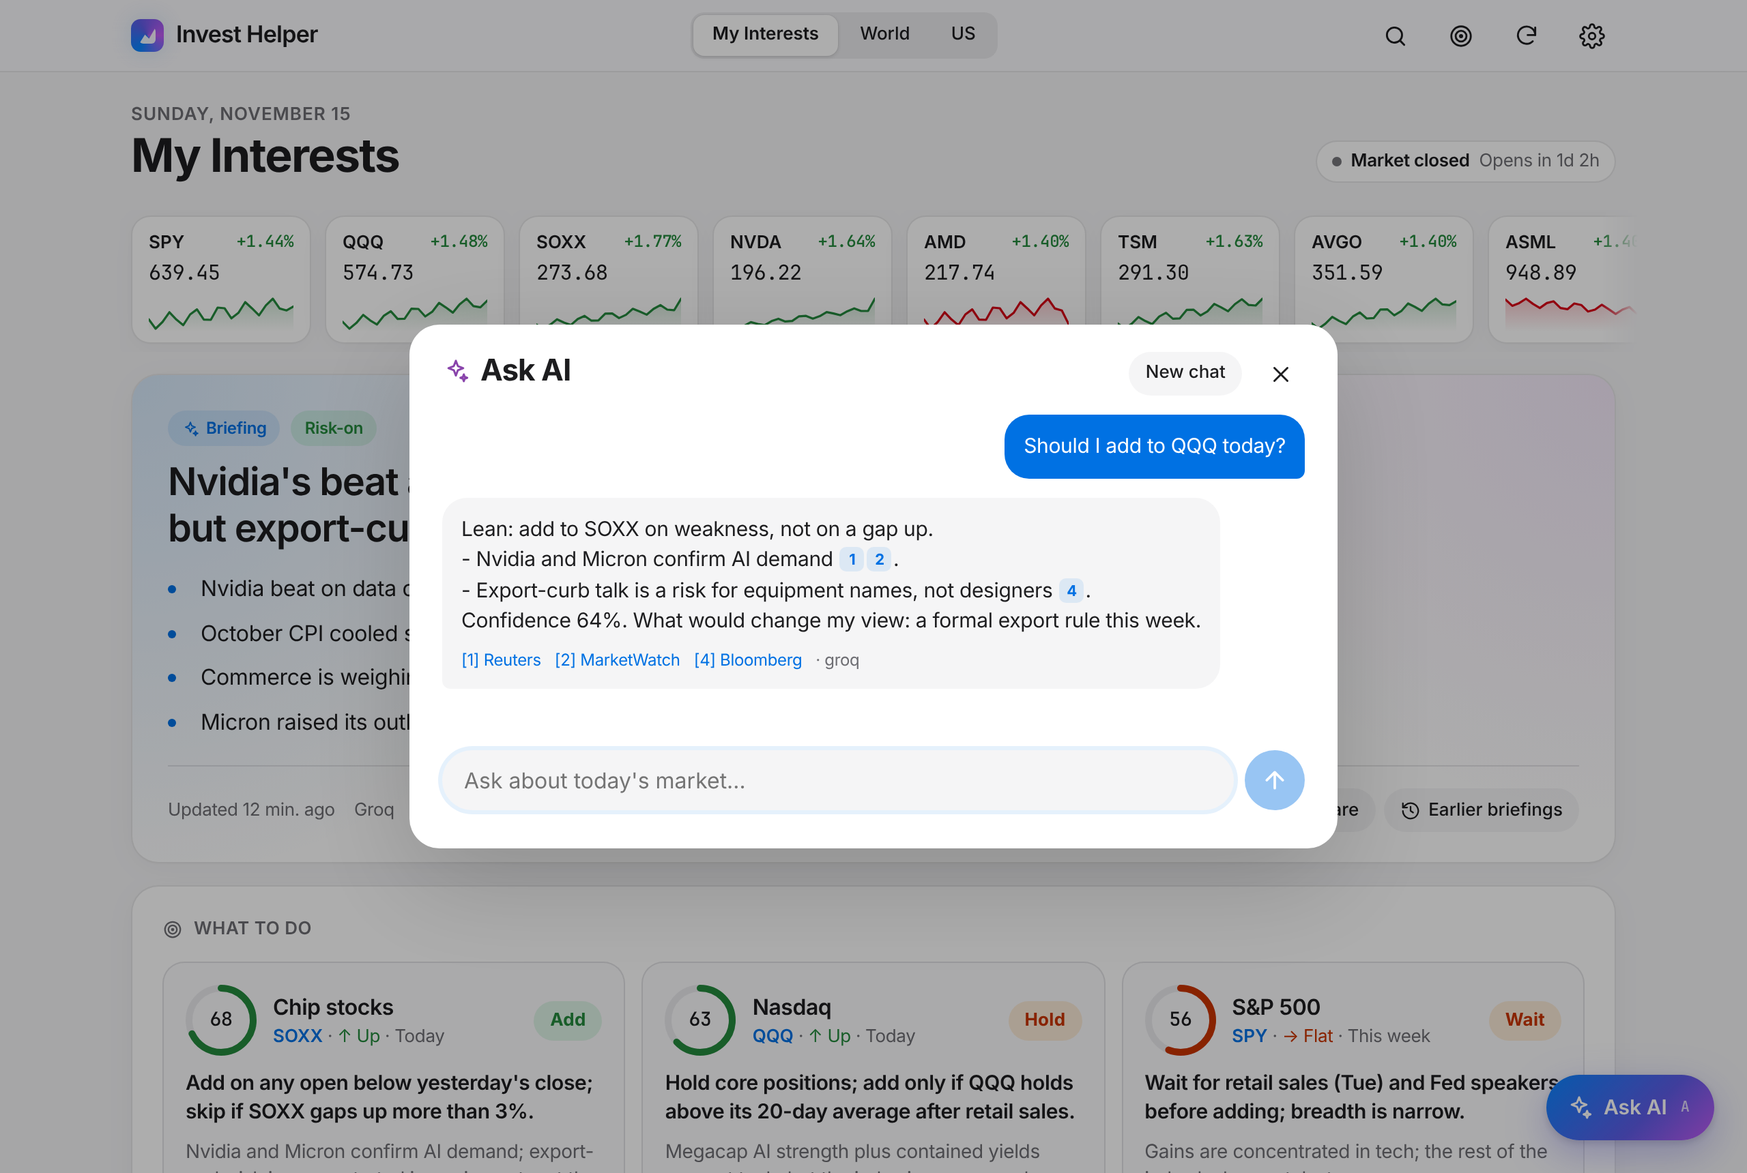
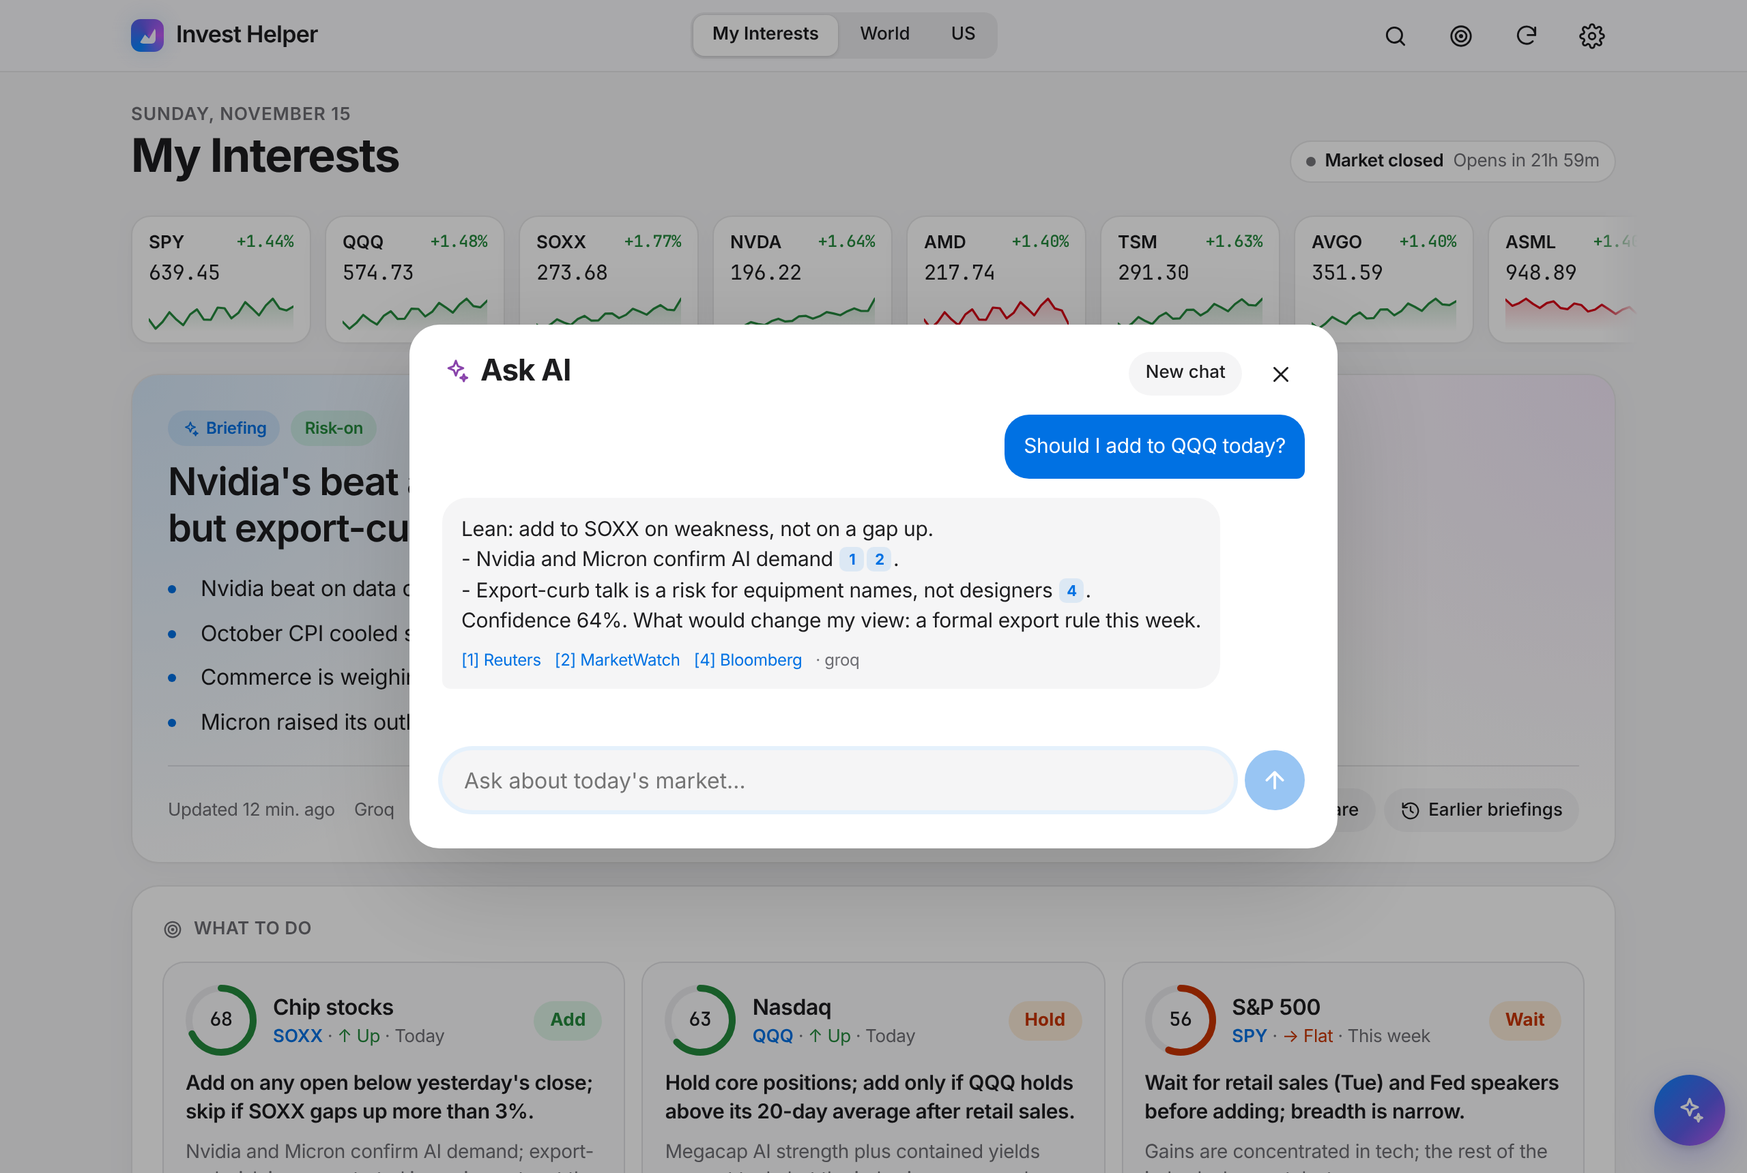
v4: catch-up mode, scenarios, technicals, holdings, followed-the-AI curve
Plan and stress test in docs/PLAN-v4.md.

Catch up faster
- Catch-up mode: the briefing as full-screen cards (tap, swipe, arrow keys)
- Since-last-visit card: flipped calls, moves since then, new key events
- "Explain this" on any headline; company-name search in the palette

Decide with more context
- Technicals engine (20/50/200-day averages, RSI, 20-day range, typical move)
  on the quote page, in a sortable watchlist table, and in the AI prompt
- Scenarios for the next major catalyst with probabilities and actions
- Market mood gauge: transparent 0-100 composite with its five parts
- Optional holdings with live P&L; the AI only sees weights and gain %
- Chart: candles, average overlays, past AI calls as markers

Trust for the right reasons
- Equity curve of following every daily call vs holding the same tickers,
  per-ticker scorecard, CSV export

UX and hygiene
- iOS-style settings navigation, toasts, refresh progress bar, focus trap
- Daily caps on Ask AI and manual refreshes
- Fix phone layout overflow when the "new" headline filter appears
- Ask AI button no longer covers content at laptop widths

Tests: new v4 suite (technicals, mood, equity math, scenario normalization,
holdings privacy, search fallback, rate limits); 77 new strings in 8 languages.

Claude-Session: https://claude.ai/code/session_014UjmJmSrbAiV9EAiWRNRq2

Changed region(s): [[0.875, 0.8936, 1.0, 0.986], [0.75, 0.1233, 0.9062, 0.1541]]

diff --git a/scripts/v4test.ts b/scripts/v4test.ts
@@ -1,0 +1,196 @@
+/**
+ * Offline tests for v4: technicals, mood gauge, scenarios, equity curve, holdings privacy,
+ * ticker search, rate limits, and the prompt wiring. `npx tsx scripts/v4test.ts`
+ */
+import assert from "node:assert/strict";
+import { promises as fs } from "fs";
+
+process.env.GROQ_API_KEY = "test";
+delete process.env.ANTHROPIC_API_KEY;
+delete process.env.GEMINI_API_KEY;
+delete process.env.LLM_PROVIDER;
+delete process.env.VERCEL;
+delete process.env.APP_PASSWORD;
+delete process.env.CRON_SECRET;
+
+const near = (a: number | undefined, b: number, tol = 1e-6) => assert.ok(a != null && Math.abs(a - b) <= tol, `${a} ≈ ${b}`);
+let groqBody: any = null; // eslint-disable-line @typescript-eslint/no-explicit-any
+let yahooSearchDown = false;
+
+const now = Math.floor(Date.now() / 1000);
+function yearChart(price: number) {
+  const ts = Array.from({ length: 260 }, (_, i) => now - (260 - i) * 86400);
+  const closes = ts.map((_, i) => price * (0.8 + (0.2 * i) / 259));
+  return { chart: { result: [{ meta: { regularMarketPrice: price, chartPreviousClose: closes.at(-2), regularMarketTime: now }, timestamp: ts, indicators: { quote: [{ close: closes, open: closes, high: closes.map((c) => c * 1.01), low: closes.map((c) => c * 0.99), volume: ts.map(() => 1) }] } }] } };
+}
+
+const modelReply = {
+  headline: "h", mood: "mixed", summary: ["s"], events: [], watch_next: [], movers: [],
+  outlook: [{ interest: "Chip stocks", ticker: "SOXX", direction: "up", confidence: 66, horizon: "today", action: "ADD", action_trigger: "above the 50-day average", rationale: "r", risks: "k" }],
+  scenarios: [
+    { catalyst: "CPI", when: "Thu 8:30 ET", cases: [{ label: "Hot", probability: "30%", reaction: "down", action: "wait" }, { label: "In line", probability: 90, reaction: "flat", action: "hold" }, { label: "Cool", probability: 30, reaction: "up", action: "add" }] },
+    { catalyst: "Second set should be dropped", when: "x", cases: [{ label: "a", probability: 50, reaction: "", action: "" }, { label: "b", probability: 50, reaction: "", action: "" }] },
+    { catalyst: "One case only", when: "x", cases: [{ label: "a", probability: 100, reaction: "", action: "" }] },
+  ],
+};
+
+globalThis.fetch = (async (input: string | URL | Request, init?: RequestInit) => {
+  const url = String(input instanceof Request ? input.url : input);
+  if (url.includes("/v1/finance/search")) {
+    if (yahooSearchDown) return new Response("blocked", { status: 429 });
+    return new Response(JSON.stringify({ quotes: [{ symbol: "MSFT", shortname: "Microsoft Corporation", quoteType: "EQUITY", exchDisp: "NASDAQ" }, { symbol: "MSFT.MX", shortname: "Microsoft MX", quoteType: "EQUITY" }, { symbol: "BAD SYMBOL", quoteType: "EQUITY" }, { symbol: "OPT1", quoteType: "OPTION" }] }), { status: 200 });
+  }
+  if (url.includes("query1.finance.yahoo.com")) {
+    const sym = decodeURIComponent(url.split("/chart/")[1].split("?")[0]);
+    return new Response(JSON.stringify(yearChart(sym === "NVDA" ? 200 : 100)), { status: 200 });
+  }
+  if (url.includes("api.groq.com")) {
+    groqBody = JSON.parse(String(init?.body));
+    return new Response(JSON.stringify({ choices: [{ message: { content: JSON.stringify(modelReply) } }] }), { status: 200 });
+  }
+  return new Response("<rss><channel></channel></rss>", { status: 200 });
+}) as typeof fetch;
+
+async function main() {
+  await fs.rm(".data", { recursive: true, force: true });
+
+  // ---- technicals
+  const T = await import("../src/lib/technicals");
+  near(T.sma([1, 2, 3, 4, 5], 3), 4);
+  assert.equal(T.sma([1, 2], 3), undefined);
+  assert.equal(T.rsi(Array.from({ length: 30 }, (_, i) => 100 + i)), 100, "all gains → RSI 100");
+  near(T.rsi(Array.from({ length: 30 }, (_, i) => 100 - i)), 0, 1e-9);
+  const zig = Array.from({ length: 60 }, (_, i) => 100 + (i % 2 ? 1 : -1));
+  const r = T.rsi(zig)!;
+  assert.ok(r > 40 && r < 60, `alternating series → RSI near 50 (${r})`);
+  const bars = Array.from({ length: 260 }, (_, i) => ({ t: i * 86400, o: 100 + i, h: 101 + i, l: 99 + i, c: 100 + i, v: 1 }));
+  const tech = T.computeTechnicals("X", bars)!;
+  assert.equal(tech.trend, "up");
+  near(tech.sma20, 100 + 259 - 9.5);
+  assert.equal(tech.resistance20, 101 + 258, "20-day high excludes the latest bar");
+  assert.equal(tech.support20, 99 + 239);
+  assert.equal(tech.high52, 101 + 259);
+  assert.ok(tech.atrPct! > 0.5 && tech.atrPct! < 0.6, `ATR% (${tech.atrPct})`);
+  assert.equal(T.computeTechnicals("X", bars.slice(0, 10)), null, "too little history → null");
+  const down = T.computeTechnicals("Y", bars.map((b, i) => ({ ...b, c: 400 - i, h: 401 - i, l: 399 - i })))!;
+  assert.equal(down.trend, "down");
+  assert.ok(T.technicalsAsText({ X: tech }).includes("trend up") && T.technicalsAsText({}).includes("unavailable"));
+
+  // ---- mood gauge
+  const M = await import("../src/lib/mood");
+  const hist = (vals: number[]) => vals.map((v, i) => [`2026-10-${String(i + 1).padStart(2, "0")}`, v] as [string, number]);
+  const q = (symbol: string, price: number, changePct: number, h: number[]) => ({ symbol, price, prevClose: price, changePct, history: hist(h), source: "yahoo" as const });
+  const flat = Array.from({ length: 22 }, () => 100);
+  const greedy = M.computeMood({
+    spy: { ...tech, price: 110, sma125: 100, rsi14: 72 },
+    sectors: Array.from({ length: 12 }, (_, i) => q(`S${i}`, 105, 1, flat)),
+    macro: [q("^VIX", 12, -3, Array.from({ length: 22 }, () => 15)), q("GC=F", 95, 0, flat)],
+    quotes: [q("SPY", 108, 1, flat)],
+  })!;
+  assert.ok(greedy.score > 80 && greedy.label === "extreme-greed", `greedy tape → ${greedy.score} ${greedy.label}`);
+  assert.equal(greedy.parts.length, 5);
+  const fearful = M.computeMood({
+    spy: { ...tech, price: 90, sma125: 100, rsi14: 28 },
+    sectors: Array.from({ length: 12 }, (_, i) => q(`S${i}`, 95, -2, flat)),
+    macro: [q("^VIX", 34, 20, Array.from({ length: 22 }, () => 20)), q("GC=F", 108, 1, flat)],
+    quotes: [q("SPY", 92, -2, flat)],
+  })!;
+  assert.ok(fearful.score < 20 && fearful.label === "extreme-fear", `fearful tape → ${fearful.score}`);
+  assert.equal(M.computeMood({ sectors: [], macro: [], quotes: [] }), undefined, "too few inputs → no gauge");
+  assert.equal(M.moodLabel(50), "neutral");
+
+  // ---- equity curve and per-ticker stats
+  const K = await import("../src/lib/track");
+  const call = (date: string, ticker: string, direction: "up" | "down" | "flat", returnPct: number, id = "d") =>
+    ({ id: `${date}:${ticker}:${id}`, date, madeAt: date, interest: ticker, ticker, direction, confidence: 60, action: "HOLD", provider: "x", returnPct, correct: direction === "up" ? returnPct > 0 : direction === "down" ? returnPct < 0 : true }) as never;
+  const calls = [
+    call("2026-11-02", "A", "up", 2), call("2026-11-02", "B", "down", -1), // day 1: AI (2+1)/2=1.5, hold (2-1)/2=0.5
+    call("2026-11-03", "A", "up", -1), call("2026-11-03", "B", "flat", 3), // day 2: AI (-1+0)/2=-0.5, hold (−1+3)/2=1
+    call("2026-11-03", "A", "up", 50, "w"), // weekly calls are excluded from the curve
+  ];
+  const eq = K.equityCurve(calls);
+  assert.equal(eq.length, 2);
+  near(eq[0].ai, 1.5, 1e-9);
+  near(eq[0].hold, 0.5, 1e-9);
+  near(eq[1].ai, (1.015 * 0.995 - 1) * 100, 1e-9);
+  near(eq[1].hold, (1.005 * 1.01 - 1) * 100, 1e-9);
+  const stats = K.computeStats(calls);
+  const a = stats.byTicker.find((b) => b.ticker === "A")!;
+  assert.equal(a.n, 3);
+  near(a.avgReturn, (2 - 1 + 50) / 3, 1e-9);
+  near(stats.byTicker.find((b) => b.ticker === "B")!.avgReturn, (1 + 0) / 2, 1e-9);
+
+  // ---- holdings math and what the AI may see
+  const P = await import("../src/lib/portfolio");
+  const s = P.summarize(
+    [{ symbol: "NVDA", shares: 10, cost: 100 }, { symbol: "SOXX", shares: 5, cost: 200 }, { symbol: "NOPE", shares: 1, cost: 1 }],
+    [{ symbol: "NVDA", price: 150, prevClose: 140 }, { symbol: "SOXX", price: 100, prevClose: 110 }],
+  );
+  assert.equal(s.value, 2000);
+  assert.equal(s.dayPnl, 100 - 50);
+  near(s.dayPct, (50 / 1950) * 100, 1e-9);
+  assert.equal(s.totalPnl, 0);
+  assert.equal(s.positions.length, 2, "holdings without a quote are skipped");
+  near(s.positions[0].weight, 75, 1e-9);
+  const text = P.positionsAsText([{ symbol: "NVDA", shares: 1234, cost: 100 }], [{ symbol: "NVDA", price: 150, prevClose: 140, changePct: 0, history: [], source: "yahoo" }])!;
+  assert.equal(text, "NVDA: 100% of portfolio, +50% vs cost");
+  assert.ok(!/1234|\$|185100|123400/.test(text), "no share counts or dollar amounts reach the AI");
+  assert.equal(P.positionsAsText([], []), undefined);
+
+  // ---- portfolio route merges duplicates
+  const pr = await import("../src/app/api/portfolio/route");
+  const put = await pr.PUT(new Request("http://x/api/portfolio", { method: "PUT", body: JSON.stringify([{ symbol: "nvda", shares: 10, cost: 100 }, { symbol: "NVDA", shares: 30, cost: 200 }]) }));
+  assert.deepEqual((await put.json()).holdings, [{ symbol: "NVDA", shares: 40, cost: 175 }]);
+  assert.equal((await pr.PUT(new Request("http://x/api/portfolio", { method: "PUT", body: JSON.stringify([{ symbol: "bad symbol", shares: 1, cost: 1 }]) }))).status, 400);
+
+  // ---- end to end: technicals, mood, positions and scenarios through the pipeline
+  const { refreshSection } = await import("../src/lib/pipeline");
+  const d = await refreshSection("interests");
+  const sys: string = groqBody.messages[0].content;
+  const user: string = groqBody.messages[1].content;
+  assert.ok(user.includes("TECHNICALS:") && user.includes("SOXX: trend up"), "technicals in prompt");
+  assert.ok(!user.includes("AMD: trend"), "free-tier prompt only carries benchmark technicals");
+  assert.ok(user.includes("MOOD GAUGE:"), "mood in prompt");
+  assert.ok(user.includes("POSITIONS (weights only):") && user.includes("NVDA: 100% of portfolio"), "position weights in prompt");
+  assert.ok(!user.includes("40 shares") && !/\$\s?\d/.test(user.split("POSITIONS")[1].split("UPCOMING")[0]), "no amounts in the positions block");
+  assert.ok(sys.includes("SCENARIOS:") && sys.includes('"scenarios"'), "scenario rule and schema in system prompt");
+  assert.ok(d.technicals?.NVDA && d.technicals.SPY, "technicals stored on digest (holdings ticker included)");
+  assert.ok(d.quotes.some((x) => x.symbol === "NVDA"));
+  const sc = d.analysis.scenarios!;
+  assert.equal(sc.length, 1, "only one scenario set kept; malformed ones dropped");
+  assert.deepEqual(sc[0].cases.map((c) => c.probability), [20, 60, 20], "probabilities rescaled to sum to 100 ('30%' string handled)");
+
+  // ---- ticker search: Yahoo parse, filtering, local fallback
+  const S = await import("../src/lib/search");
+  const hits = await S.searchTickers("micros");
+  assert.deepEqual(hits.map((h) => h.symbol), ["MSFT", "MSFT.MX"], "invalid symbols and options filtered out");
+  assert.equal(hits[0].exchange, "NASDAQ");
+  yahooSearchDown = true;
+  const local = await S.searchTickers("nvid");
+  assert.equal(local[0]?.symbol, "NVDA", "falls back to the built-in list when Yahoo is unavailable");
+  assert.deepEqual(await S.searchTickers("  "), []);
+
+  // ---- rate limit
+  const R = await import("../src/lib/ratelimit");
+  const day = new Date("2026-11-16T15:00:00Z");
+  assert.equal((await R.hit("t", 2, day)).ok, true);
+  assert.equal((await R.hit("t", 2, day)).ok, true);
+  assert.equal((await R.hit("t", 2, day)).ok, false, "third hit in a day is refused");
+  assert.equal((await R.hit("t", 2, new Date("2026-11-17T15:00:00Z"))).ok, true, "resets the next day");
+
+  // ---- CSV export and per-ticker calls
+  const { setJSON } = await import("../src/lib/store");
+  await setJSON("calls", calls);
+  const tr = await import("../src/app/api/track/route");
+  const csv = await (await tr.GET(new Request("http://x/api/track?format=csv"))).text();
+  assert.equal(csv.split("\n").length, 6, "header + 5 calls");
+  assert.ok(csv.startsWith("session,horizon,ticker") && csv.includes("2026-11-03,week,A"));
+  const per = await (await tr.GET(new Request("http://x/api/track?ticker=b"))).json();
+  assert.equal(per.calls.length, 2);
+
+  console.log("V4 OK");
+}
+main().catch((e) => {
+  console.error(e);
+  process.exit(1);
+});

diff --git a/src/components/primitives.tsx b/src/components/primitives.tsx
@@ -12,6 +12,21 @@ export function Sheet({ title, onClose, children, actions, wide }: { title: Reac
     ref.current?.focus();
     const onKey = (e: KeyboardEvent) => {
       if (e.key === "Escape") onClose();
+      // Keep keyboard focus inside the sheet.
+      if (e.key === "Tab" && ref.current) {
+        const f = [...ref.current.querySelectorAll<HTMLElement>('a[href], button:not([disabled]), input:not([disabled]), select:not([disabled]), textarea, [tabindex]:not([tabindex="-1"])')].filter((el) => el.offsetParent !== null);
+        if (!f.length) return;
+        const first = f[0];
+        const last = f[f.length - 1];
+        const active = document.activeElement as HTMLElement | null;
+        if (e.shiftKey && (active === first || !ref.current.contains(active))) {
+          e.preventDefault();
+          last.focus();
+        } else if (!e.shiftKey && (active === last || !ref.current.contains(active))) {
+          e.preventDefault();
+          first.focus();
+        }
+      }
     };
     window.addEventListener("keydown", onKey);
     document.body.style.overflow = "hidden";

diff --git a/README.md b/README.md
@@ -24,6 +24,27 @@ Every section opens with an AI briefing, ordered by what helps you act fastest:
 - **Up next**: earnings for your tickers plus FOMC, CPI, jobs and PPI dates, all fed to the AI so its timing advice knows what's coming.
 - **Headlines**: new-since-last-visit dots, "Key" badges on stories the AI used, "+N more" when many outlets ran the story, search, and saved headlines.
 
+**New in v4: decide faster, trust for the right reasons**
+
+- **Catch-up mode**: the whole briefing as full-screen cards, one idea each (headline → each call → movers → each event → scenarios → what's next). Tap, swipe or use the arrow keys. Press `C`.
+- **Since you were last here**: calls that flipped, the biggest moves since then, and new key events, on top of the page.
+- **Scenarios**: before CPI, FOMC, jobs or a followed company's earnings, an "if hot / in line / cool" playbook with probabilities, the expected reaction, and what to do in each case.
+- **Technicals**: 20/50/200-day averages, RSI, 20-day range, typical daily move for every ticker. Shown on the quote page and the **watchlist table**, and given to the AI so triggers name real levels.
+- **Market mood gauge**: a transparent 0-100 composite (momentum, strength, breadth, volatility, safe-haven demand). Tap it to see each part.
+- **"If you followed the AI"**: an equity curve of acting on every daily call vs simply holding the same tickers, a per-ticker scorecard, and CSV export.
+- **Holdings (optional)**: enter shares and cost for a live P&L card. The AI only ever sees position weights and gain %, never amounts, and words its advice for what you actually hold.
+- **Chart upgrades**: candles, 20/50-day average overlays, and past AI calls marked on the chart (green = right, red = wrong).
+- **Smaller things**: find tickers by company name, "Explain this" on any headline, iOS-style settings, toasts, a refresh progress bar, daily caps on Ask AI and manual refreshes.
+
+<p align="center">
+  <img src="docs/screenshots/catch-up-desktop.png" width="62%" alt="Catch-up mode" />
+  <img src="docs/screenshots/catch-up.png" width="20%" alt="Catch-up mode on a phone" />
+</p>
+<p align="center">
+  <img src="docs/screenshots/watchlist.png" width="49%" alt="Watchlist and events" />
+  <img src="docs/screenshots/desktop-dark.png" width="49%" alt="Scenarios and chart" />
+</p>
+
 **New in v3**
 
 - **Live chart** on every ticker: 1D · 5D · 1M · 6M · 1Y, crosshair readout, previous-close line, volume. Updates every ~20s while the market is open, at no cost (TradingView's open-source Lightweight Charts + Yahoo's public chart data).
@@ -58,7 +79,7 @@ Every section opens with an AI briefing, ordered by what helps you act fastest:
 - keyboard shortcuts;
 - install to your home screen as an app.
 
-Design notes and the reasoning behind each feature: [`docs/PLAN.md`](docs/PLAN.md) (v2) and [`docs/PLAN-v3.md`](docs/PLAN-v3.md) (v3).
+Design notes and the reasoning behind each feature: [`docs/PLAN.md`](docs/PLAN.md) (v2), [`docs/PLAN-v3.md`](docs/PLAN-v3.md) (v3) and [`docs/PLAN-v4.md`](docs/PLAN-v4.md) (v4).
 
 ## The part that keeps the AI honest: the track record
 
@@ -66,7 +87,7 @@ Design notes and the reasoning behind each feature: [`docs/PLAN.md`](docs/PLAN.m
 
 A confidence number means nothing unless you know how often it's right. Every outlook in My Interests is logged as a call on the **next session that hasn't opened yet**, so the AI never gets to peek at the market's reaction. Each call is then graded against the real close ("today" calls on the next close, "this week" calls on the 5th close).
 
-The calibration chart compares what the AI claimed (line) with how often it was right (bar). These numbers go back into the prompt on every run so the model can recalibrate. Give it a few weeks before you trust them.
+The calibration chart compares what the AI claimed (line) with how often it was right (bar). Below it, the equity curve shows what acting on every daily call would have returned next to simply holding the same tickers (before costs). These numbers go back into the prompt on every run so the model can recalibrate. Give it a few weeks before you trust them.
 
 <br clear="right" />
 
@@ -127,6 +148,7 @@ Set `ANTHROPIC_API_KEY` in Vercel and redeploy. It defaults to `claude-opus-5-5`
 | `/` | Search headlines |
 | `⌘K` / `Ctrl+K` | Command palette |
 | `A` | Ask AI |
+| `C` | Catch-up mode |
 | `L` | Listen to the briefing |
 | `T` | Track record |
 | `D` | Toggle light/dark |
@@ -162,5 +184,8 @@ Locally, data is stored as JSON in `.data/`.
 - Price alerts are as fresh as the check interval (~20 min by default).
 - Free feeds and the Yahoo price endpoint are unofficial and can change or rate-limit. Failures show up under "feed(s) failed", and the app keeps going with whatever loaded.
 - Free LLM tiers change their limits and models often. If one starts failing, the fallback note on the page will say so. Swap the model via `GROQ_MODEL` / `GEMINI_MODEL`.
+- Technical levels and the mood gauge are context computed from price history. They are not signals on their own.
+- Scenario probabilities are the AI's estimates, not market-implied odds.
+- The "followed the AI" curve ignores trading costs and assumes equal weight per call.
 - The grading is a simple direction check. It doesn't measure how big a move was or whether a trade would have made money after costs.
 - AI predictions from public news. They will be wrong regularly. Not financial advice.

diff --git a/docs/PLAN-v4.md b/docs/PLAN-v4.md
@@ -65,3 +65,16 @@ Cut after stress test: analyst data, social sentiment, web push (email already c
 - `GET /api/search?q=`, `GET/PUT /api/portfolio`.
 - `lib/ratelimit.ts`: per-day counters in the store.
 - Client: `CatchUp`, `SinceLastVisit`, `Watchlist`, `MoodGauge`, `Scenarios`, `Portfolio`, toasts, settings navigation.
+
+## 5. Status
+
+Everything marked ✅ is built on the `v4` branch.
+
+- **Offline tests** (`npm test`, six suites): moving averages, RSI, support/resistance, mood gauge extremes, equity-curve math, scenario normalization (one set, probabilities rescaled to 100), holdings P&L, the privacy rule that no share counts or dollar amounts reach the AI, ticker search with local fallback, rate limits, CSV export.
+- **Browser tests** (39 new checks, all v2 and v3 checks still pass): since-last-visit card, catch-up navigation by keys and clicks, watchlist sorting, chart toggles, holdings editor and privacy toggle, settings drill-down, company search in ⌘K, Explain-this, CSV download, focus trap in sheets.
+- **Found and fixed along the way:** a layout overflow on phones when the "new" headline filter appeared (also present in v3), and the Ask AI button covering content at laptop widths.
+
+## 6. Decisions left for you
+
+1. **Holdings** are optional. Add them in Settings → Holdings if you want position-aware advice.
+2. Merge `v4` into `main` when you've looked at it (it contains v2 and v3).
